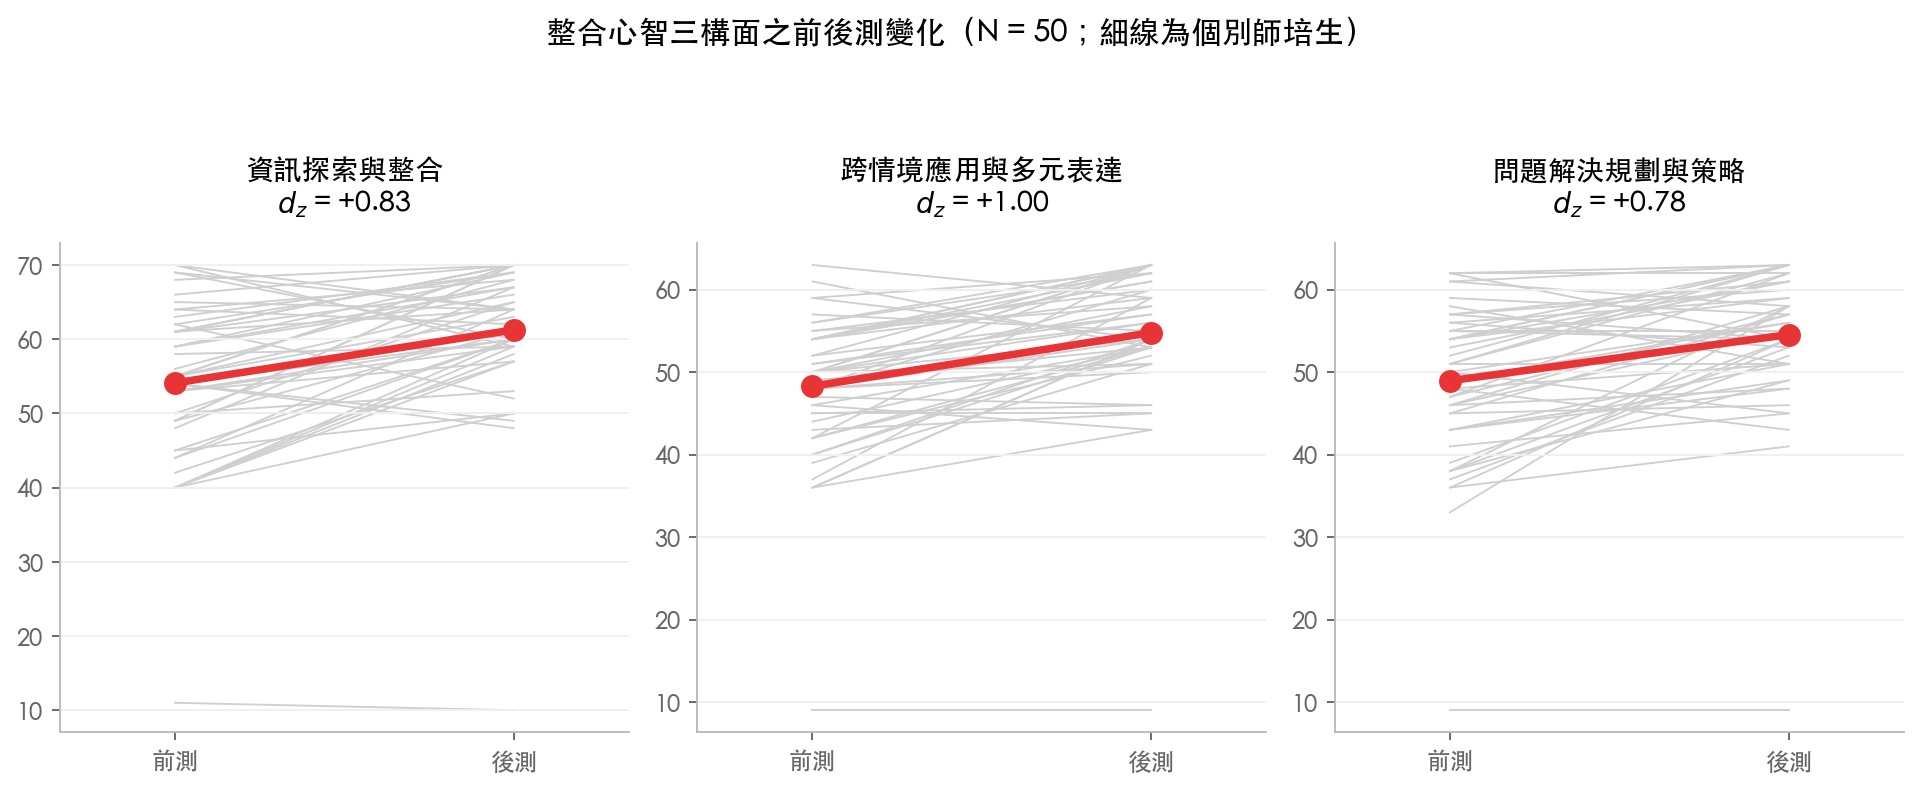
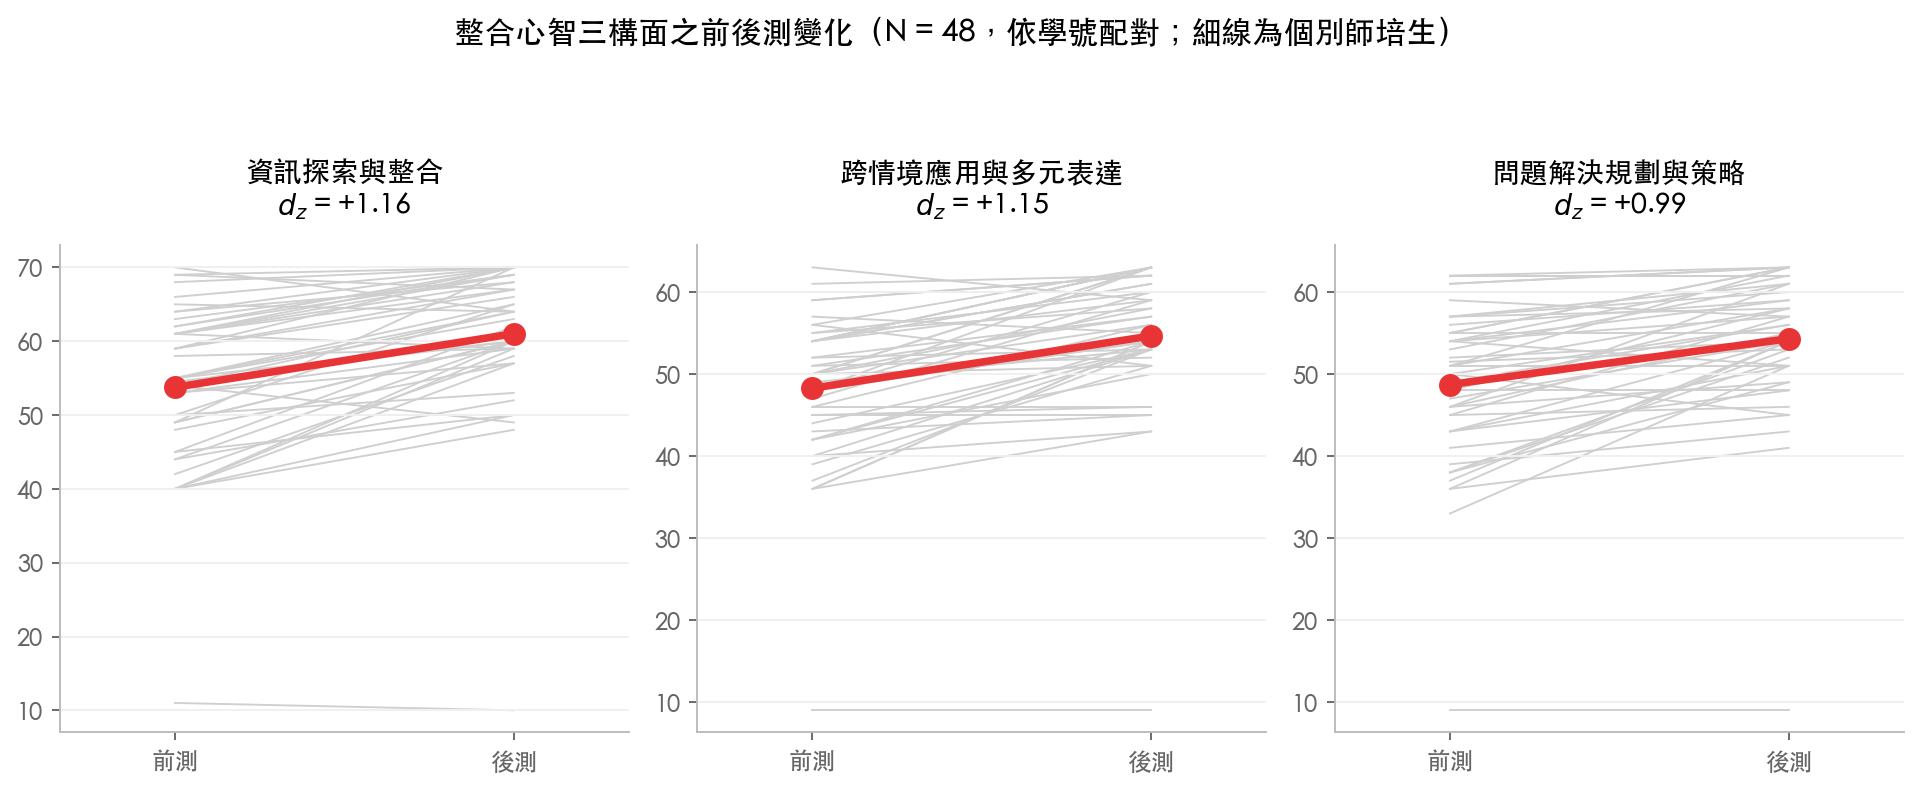
更正前後測配對方式（原檔以列位置配對而錯位），改依學號配對後 N=48；全站樣本數統一為 48

diff --git a/findings.html b/findings.html
@@ -25,7 +25,7 @@
     <div class="rv">
       <div class="kicker">03　研究發現</div>
       <h1>心態提升了，能動性讀得出來，兩者卻沒有走在一起</h1>
-      <p class="stand">整合心智以課程前後測問卷測量，共享能動性由同儕回饋論述辨識。兩份資料以學號串接後，可就 45 位師培生同時取得兩項指標。</p>
+      <p class="stand">整合心智以課程前後測問卷測量，共享能動性由同儕回饋論述辨識，分析對象同為 48 位師培生。其中 45 位另具備完整前後測問卷，可同時取得兩項指標。</p>
     </div>
     <figure class="kv rv"><img src="assets/art/kv-findings.jpg" alt=""></figure>
   </div>
@@ -37,9 +37,9 @@
     <div class="cols">
       <div class="rv"><p class="lead-p">兩項構念各自採用最適合它的資料，而非一律問卷或一律語料。</p></div>
       <div class="rv">
-        <p><strong>整合心智</strong>屬個人層次的心理特質，以課程前後測問卷測量，含資訊探索與整合、跨情境應用與多元表達、問題解決規劃與策略三個構面，前後測各 50 位師培生完整作答，以成對樣本 t 檢定分析。</p>
+        <p><strong>整合心智</strong>屬個人層次的心理特質，以課程前後測問卷測量，含資訊探索與整合、跨情境應用與多元表達、問題解決規劃與策略三個構面。前後測依學號逐一配對，48 位師培生兩次均完整作答，以成對樣本 t 檢定分析。</p>
         <p><strong>共享能動性</strong>展現於成員是否主動對社群知識物件提出質疑並貢獻可改進的想法，這些動作留存於論述之中，因此直接由語料辨識。九個編碼分屬反思依據、知識翻新行動與調適取向三個功能層次；在一位師培生所有由反思依據出發的連結中，連向批判性提問或具體策略建議者所占的比例，記為證據導向能動性比率，其餘則連向情感支持。</p>
-        <p class="muted">論述端的分析單位為個別師培生（N = 48），連結於各回饋脈絡內以累積視窗計算，經球面正規化後轉為相對組成。問卷與論述兩份資料以學號串接，45 位師培生兩者兼具。</p>
+        <p class="muted">論述端的分析單位為個別師培生（N = 48），連結於各回饋脈絡內以累積視窗計算，經球面正規化後轉為相對組成。兩份資料以學號串接，48 位之中有 45 位同時具備問卷分數與論述指標，其餘 3 位缺前測問卷。</p>
       </div>
     </div>
   </div>
@@ -51,15 +51,15 @@
 
     <div class="find rv">
       <div class="find-grid">
-        <div class="stat-col"><div class="rq">發現 01</div><div class="big">+.95</div><div class="cap">整合心智總分之提升效果量 d<sub>z</sub></div></div>
+        <div class="stat-col"><div class="rq">發現 01</div><div class="big">+1.27</div><div class="cap">整合心智總分之提升效果量 d<sub>z</sub></div></div>
         <div>
           <h2>整合心智三構面在一學期後全數顯著提升</h2>
-          <p>資訊探索與整合由 54.10 升至 61.26（d<sub>z</sub> = +0.83），跨情境應用與多元表達由 48.30 升至 54.80（d<sub>z</sub> = +1.00），問題解決規劃與策略由 48.96 升至 54.56（d<sub>z</sub> = +0.78）。三者的成對樣本 t 檢定 p 值均小於 .001，改以不假設常態的 Wilcoxon 檢定亦得到相同結論。</p>
-          <p class="muted">三構面總分由 151.36 升至 170.62，效果量 d<sub>z</sub> = +0.95。</p>
+          <p>資訊探索與整合由 53.76 升至 61.02（d<sub>z</sub> = +1.16），跨情境應用與多元表達由 48.27 升至 54.65（d<sub>z</sub> = +1.15），問題解決規劃與策略由 48.72 升至 54.31（d<sub>z</sub> = +0.99）。三者的成對樣本 t 檢定 p 值均小於 .001，改以不假設常態的 Wilcoxon 檢定亦得到相同結論。</p>
+          <p class="muted">三構面總分由 150.75 升至 169.98，效果量 d<sub>z</sub> = +1.27。</p>
         </div>
       </div>
       <figure class="plate"><img src="assets/figs/mindset_prepost.png" alt="整合心智前後測變化">
-        <figcaption>整合心智三構面之前後測變化（N = 50；細線為個別師培生，粗線為平均）</figcaption></figure>
+        <figcaption>整合心智三構面之前後測變化（N = 48，依學號配對；細線為個別師培生，粗線為平均）</figcaption></figure>
     </div>
 
     <div class="find rv">
@@ -80,7 +80,7 @@
         <div class="stat-col"><div class="rq">發現 03</div><div class="big">−.20</div><div class="cap">整合心智與共享能動性之相關（未達顯著）</div></div>
         <div>
           <h2>兩項構念之間未見關聯</h2>
-          <p>本計畫原先預期具備整合心智者較能推動社群展現共享能動性。以學號串接兩份資料後，45 位師培生的後測整合心智總分與證據導向能動性比率之相關為 r = −.20（95% 信賴區間 [−.46, +.10]，p = .198），未達顯著，方向且與預期相反。改以前測分數、進步分數或三個分構面分別計算，結果一致（所有 |r| 均小於 .29）。控制回饋書寫量後之偏相關為 −.29。</p>
+          <p>本計畫原先預期具備整合心智者較能推動社群展現共享能動性。在兩項資料兼具的 45 位師培生中，後測整合心智總分與證據導向能動性比率之相關為 r = −.20（95% 信賴區間 [−.46, +.10]，p = .198），未達顯著，方向且與預期相反。改以前測分數、進步分數或三個分構面分別計算，結果一致（所有 |r| 均小於 .29）。控制回饋書寫量後之偏相關為 −.29。</p>
           <p class="muted">須說明的是，本樣本在 α = .05、檢定力 .80 之下僅能偵測到 r ≥ .41 的相關；若母體相關實為 .30，本樣本偵測到的機率僅約五成。因此本結果宜讀為「未能偵測到關聯」，而非「兩者確實無關」。</p>
         </div>
       </div>
@@ -107,6 +107,7 @@
   <div class="shell">
     <div class="disclose rv">
       <div class="tag">誠實揭露</div>
+      <p><strong>前後測配對方式已更正。</strong>既有的成對樣本資料檔以列位置配對，自第 24 列起前後測錯開一位，50 列中僅 27 列屬同一人。本計畫改依學號逐一配對後重新計算，有效樣本為 48 人，三構面效果量均較原數值為大（錯誤配對所引入的雜訊會稀釋成對效果）。網站與報告所列數值均為更正後結果。</p>
       <p><strong>兩份資料的性質不同，不宜等量齊觀。</strong>整合心智為自陳量表，測得者為師培生對自身狀態的認知；共享能動性為論述指標，測得者為其實際的回饋行為。兩者未見關聯，可能反映構念本身確實獨立，也可能反映自陳與行為之間的一般性落差。</p>
       <p><strong>本計畫亦曾嘗試由論述辨識整合心智，未能成立。</strong>跨層次連結占比在 48 人之間幾乎沒有變異（變異係數 .012），屬編碼架構本身的性質；改以三橋均勻度或編碼涵蓋數計算者，與回饋書寫量的相關達 .61 與 .78，實質上測到的是書寫多寡。整合心智因此僅以問卷測量。</p>
       <p><strong>共享能動性指標受書寫量影響。</strong>證據導向能動性比率與總編碼數的皮爾森相關為 .52，等級相關為 .28（p = .055）。前後測問卷為單組前後比較，無對照組，提升幅度無法排除課程以外因素與重複施測效應。</p>
@@ -125,7 +126,7 @@
       </div>
       <div>
         <h4>資料來源</h4>
-        <p>課程前後測問卷（N = 50）<br>同儕回饋語料，取自子研究師培生在知識翻新環境中 SDGs 教學實踐反思與調適歷程之研究</p>
+        <p>課程前後測問卷與同儕回饋語料<br>分析對象為 48 位師培生<br>語料取自子研究師培生在知識翻新環境中 SDGs 教學實踐反思與調適歷程之研究</p>
       </div>
       <div>
         <h4>研究團隊</h4>

diff --git a/index.html b/index.html
@@ -25,7 +25,7 @@
     <div class="rv">
       <div class="kicker">國立清華大學教育與學習科技系研究獎勵計畫成果</div>
       <h1>探究師培生在知識翻新環境中的整合心態與共享能動性</h1>
-      <p class="stand">本計畫以兩種資料檢視兩項構念：整合心智取自 50 位師培生的課程前後測問卷，共享能動性則直接由同儕回饋論述辨識。師培生分組設計 SDGs 教案，進入真實國小教室試教，返校後於課堂報告教學歷程，再由同儕提出反思提問與建議；48 位師培生的互評內容構成 567 個編碼段落。兩份資料以學號串接後，可就 45 位師培生同時取得問卷分數與論述指標。</p>
+      <p class="stand">本計畫以兩種資料檢視兩項構念：整合心智取自師培生的課程前後測問卷，共享能動性則直接由同儕回饋論述辨識。師培生分組設計 SDGs 教案，進入真實國小教室試教，返校後於課堂報告教學歷程，再由同儕提出反思提問與建議。兩項資料的分析對象同為 48 位師培生，其互評內容構成 567 個編碼段落；其中 45 位另具備完整的前後測問卷。</p>
     </div>
     <figure class="kv rv"><img src="assets/art/kv-home.jpg" alt=""></figure>
   </div>
@@ -34,10 +34,10 @@
 <section class="sec">
   <div class="shell">
     <div class="figs rv">
-      <div class="f"><b>+.95</b><span>整合心智前後測<br>提升效果量 d<sub>z</sub></span></div>
+      <div class="f"><b>+1.27</b><span>整合心智前後測<br>提升效果量 d<sub>z</sub></span></div>
       <div class="f"><b>.75</b><span>證據導向能動性比率<br>（全體平均）</span></div>
       <div class="f"><b>−.20</b><span>兩構念之關聯<br>（未達顯著）</span></div>
-      <div class="f"><b>45</b><span>兩份資料皆可取得者</span></div>
+      <div class="f"><b>48</b><span>納入分析之師培生</span></div>
     </div>
   </div>
 </section>
@@ -51,7 +51,7 @@
       </div>
       <div class="rv">
         <p>整合心智以課程前後測問卷測量，三個構面在一學期後全數顯著提升，效果量介於中度與大之間。共享能動性則由論述辨識：當一位師培生援引學生的學習表現時，這份證據接到的是批判性提問與具體策略建議，還是接到肯定與鼓勵。前者是認識論意義上的能動，後者是關係性的維繫。</p>
-        <p>本計畫原先預期具備整合心智者較能推動社群展現共享能動性。以學號串接兩份資料後，45 位師培生的資料並未支持這項預期，相關係數為 −.20 且未達顯著。詳見研究發現。</p>
+        <p>本計畫原先預期具備整合心智者較能推動社群展現共享能動性。以學號串接兩份資料後，資料並未支持這項預期，相關係數為 −.20 且未達顯著。詳見研究發現。</p>
       </div>
     </div>
   </div>
@@ -95,7 +95,7 @@
       </div>
       <div>
         <h4>資料來源</h4>
-        <p>課程前後測問卷（N = 50）<br>同儕回饋語料，取自子研究師培生在知識翻新環境中 SDGs 教學實踐反思與調適歷程之研究</p>
+        <p>課程前後測問卷與同儕回饋語料<br>分析對象為 48 位師培生<br>語料取自子研究師培生在知識翻新環境中 SDGs 教學實踐反思與調適歷程之研究</p>
       </div>
       <div>
         <h4>研究團隊</h4>

diff --git a/course.html b/course.html
@@ -85,7 +85,7 @@
       </div>
       <div>
         <h4>資料來源</h4>
-        <p>課程前後測問卷（N = 50）<br>同儕回饋語料，取自子研究師培生在知識翻新環境中 SDGs 教學實踐反思與調適歷程之研究</p>
+        <p>課程前後測問卷與同儕回饋語料<br>分析對象為 48 位師培生<br>語料取自子研究師培生在知識翻新環境中 SDGs 教學實踐反思與調適歷程之研究</p>
       </div>
       <div>
         <h4>研究團隊</h4>

diff --git a/field.html b/field.html
@@ -60,7 +60,7 @@
       </div>
       <div>
         <h4>資料來源</h4>
-        <p>課程前後測問卷（N = 50）<br>同儕回饋語料，取自子研究師培生在知識翻新環境中 SDGs 教學實踐反思與調適歷程之研究</p>
+        <p>課程前後測問卷與同儕回饋語料<br>分析對象為 48 位師培生<br>語料取自子研究師培生在知識翻新環境中 SDGs 教學實踐反思與調適歷程之研究</p>
       </div>
       <div>
         <h4>研究團隊</h4>

diff --git a/outputs.html b/outputs.html
@@ -88,7 +88,7 @@
       </div>
       <div>
         <h4>資料來源</h4>
-        <p>課程前後測問卷（N = 50）<br>同儕回饋語料，取自子研究師培生在知識翻新環境中 SDGs 教學實踐反思與調適歷程之研究</p>
+        <p>課程前後測問卷與同儕回饋語料<br>分析對象為 48 位師培生<br>語料取自子研究師培生在知識翻新環境中 SDGs 教學實踐反思與調適歷程之研究</p>
       </div>
       <div>
         <h4>研究團隊</h4>
